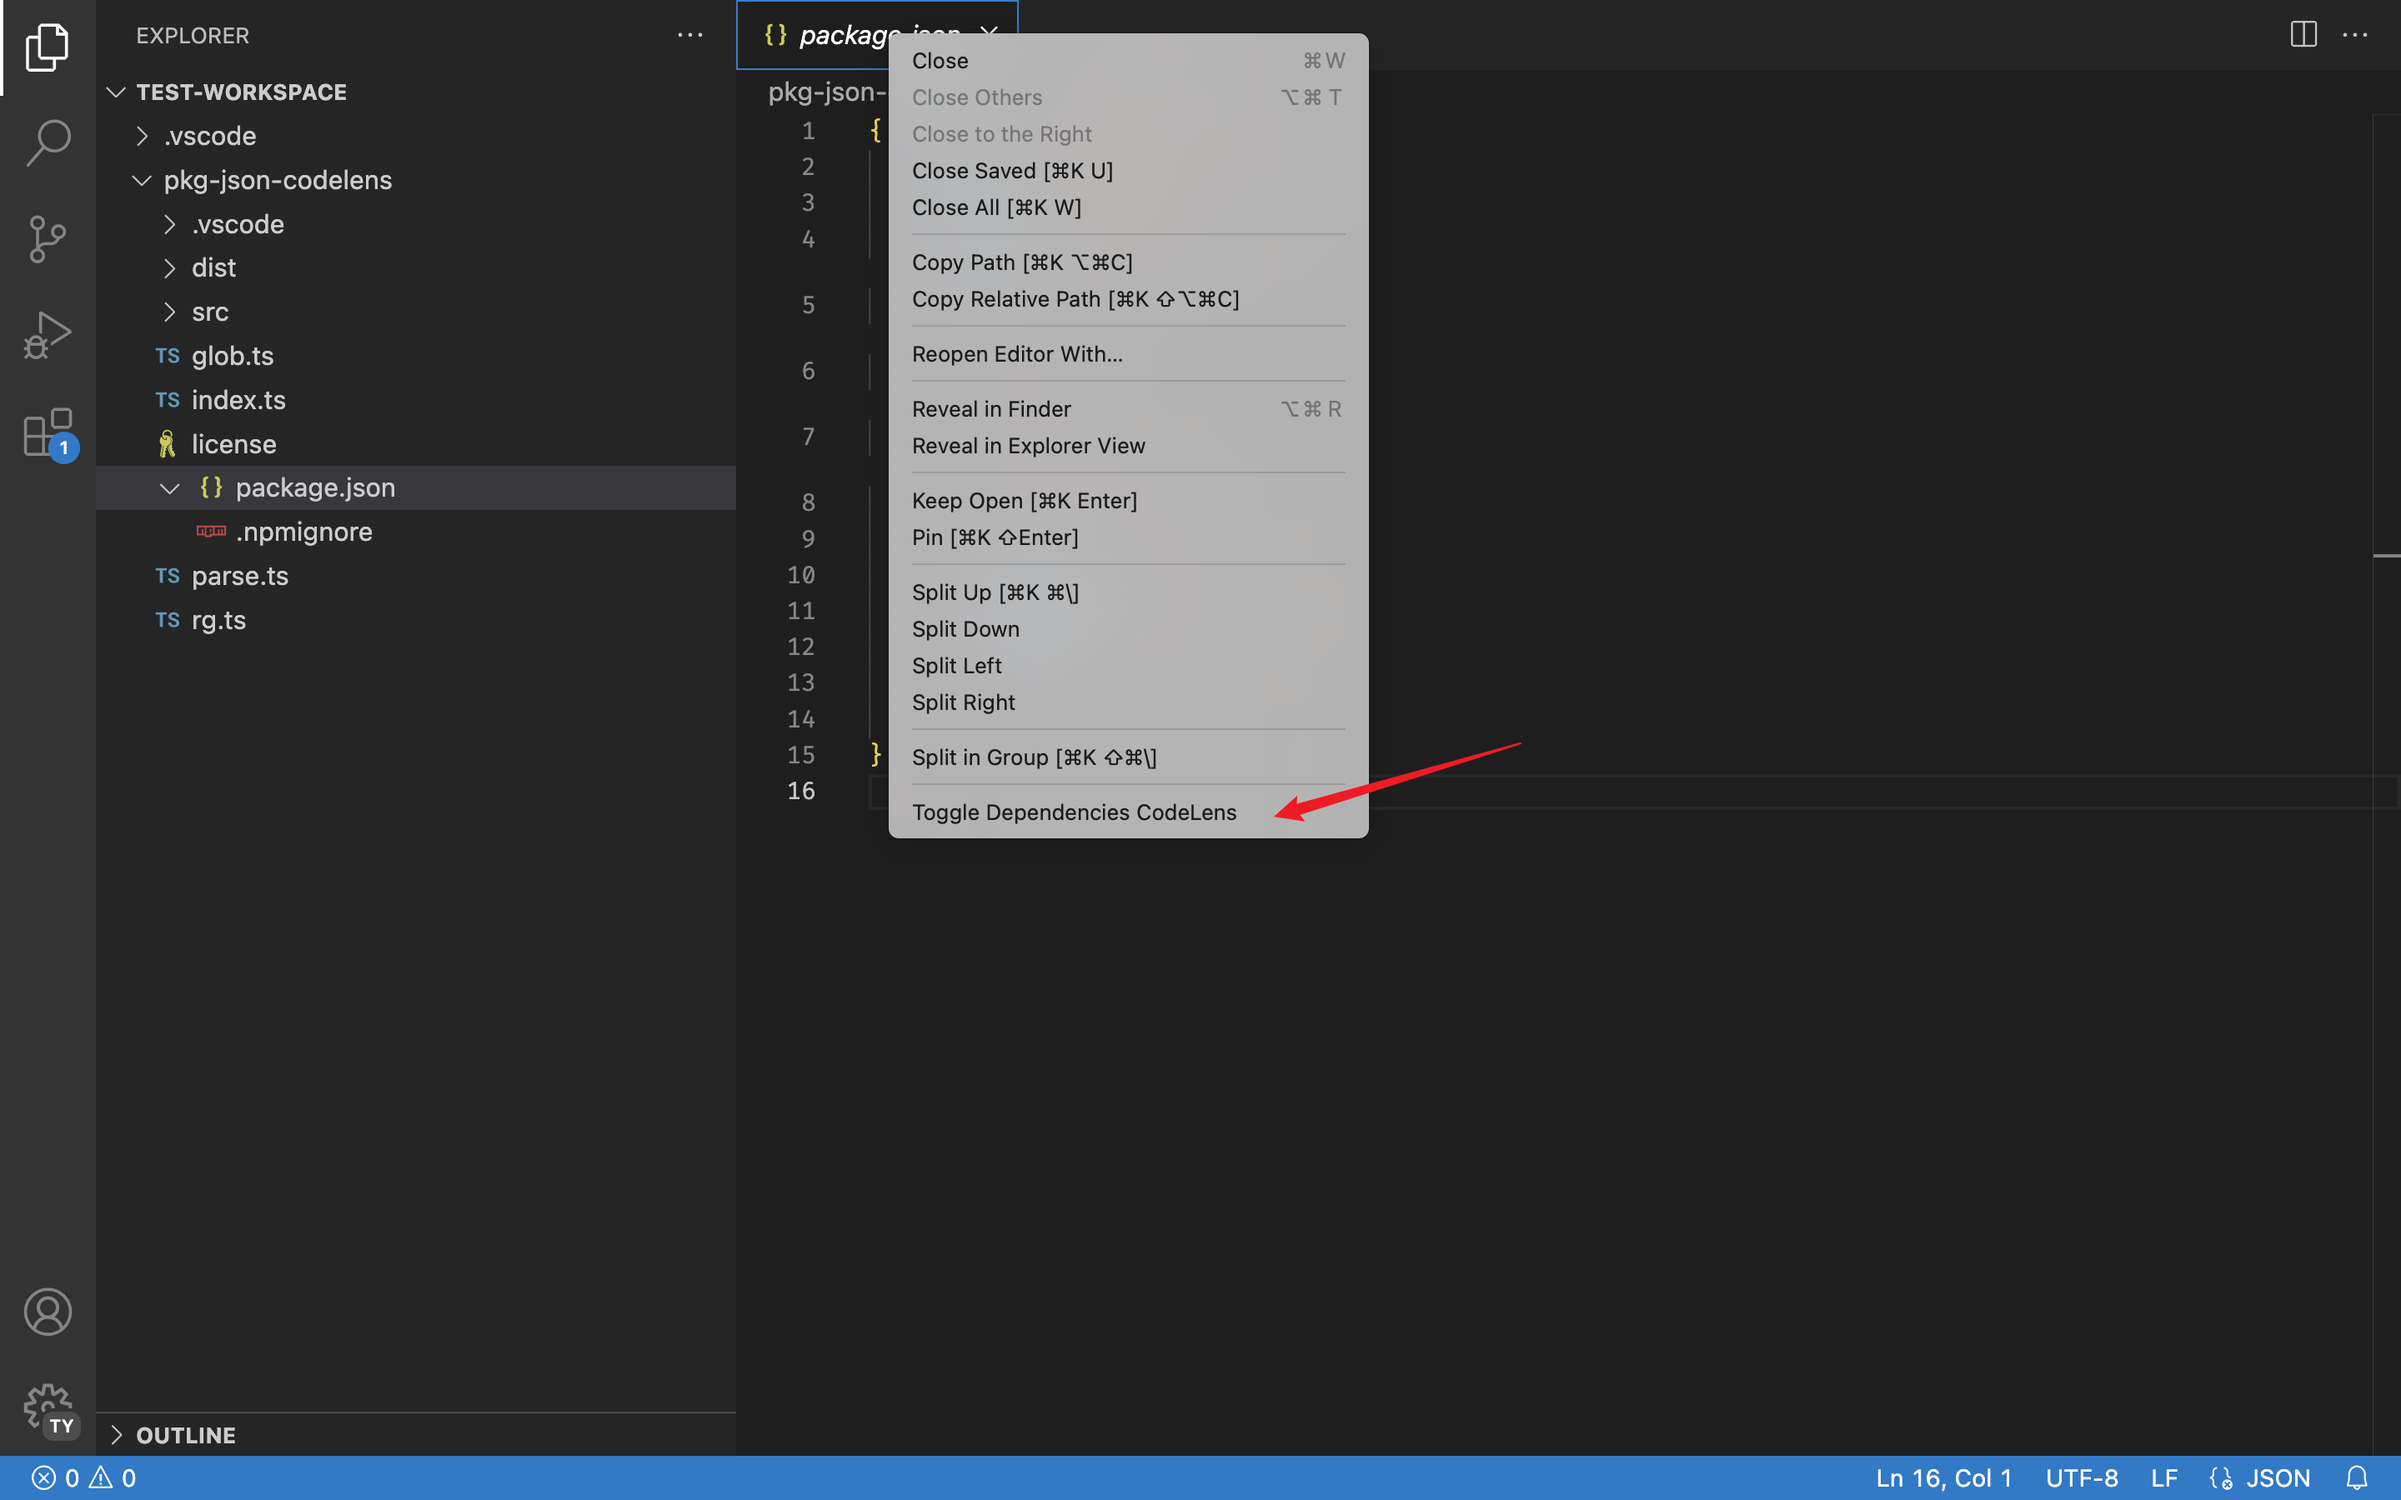
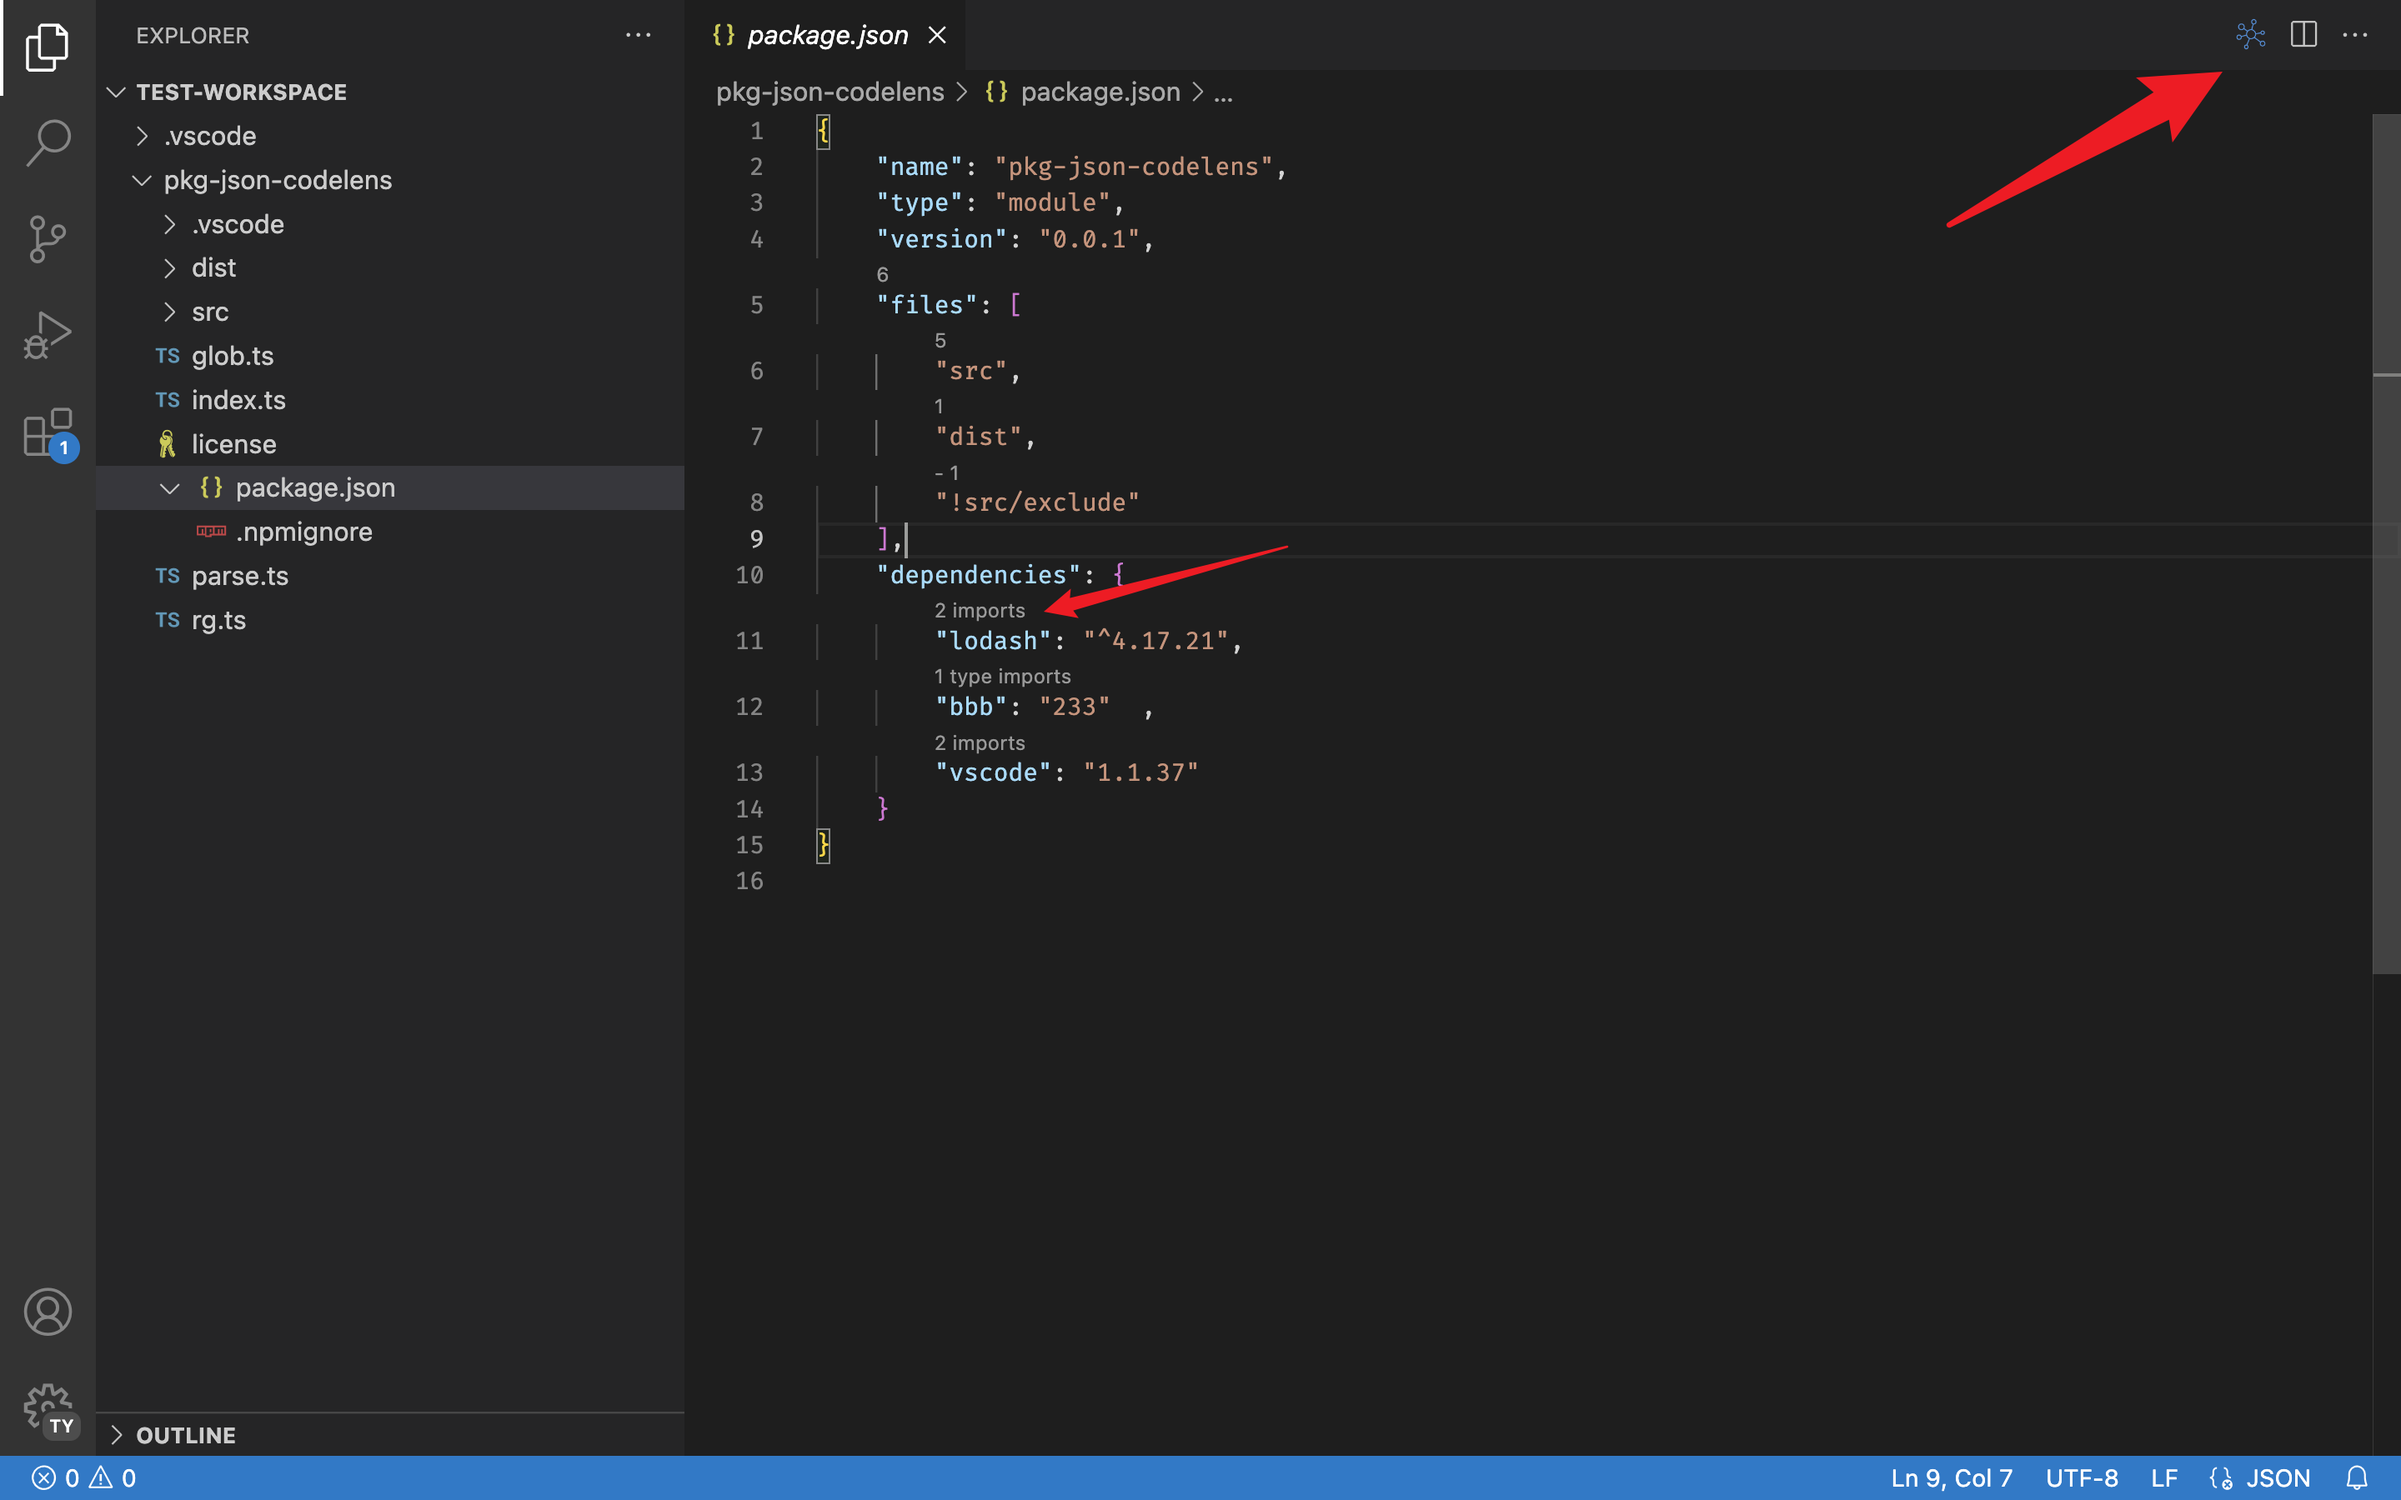
docs: update changelog for 0.6.0

diff --git a/CHANGELOG.md b/CHANGELOG.md
@@ -1,5 +1,19 @@
 <!-- https://keepachangelog.com/en/1.0.0/ -->
 
+## 0.6.0 - 2023-04-22
+
+### Added
+
+- add toggle dependencies codeLens icon
+
+### Changed
+
+- perf: throttle fire provide codeLens
+
+### Fixed
+
+- can't enable codeLens if is disable when startup
+
 ## 0.5.0 - 2023-04-21
 
 ### Added
